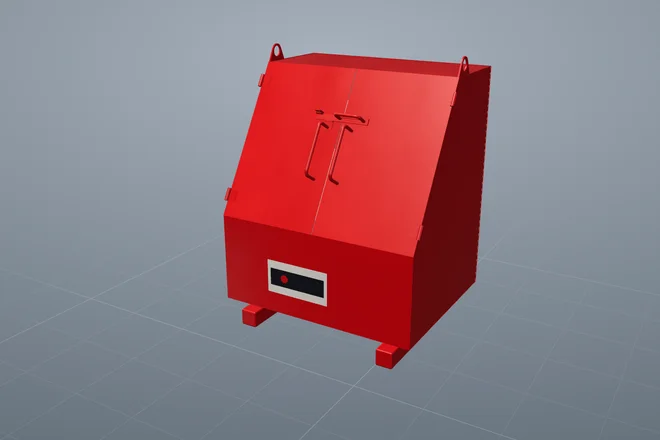
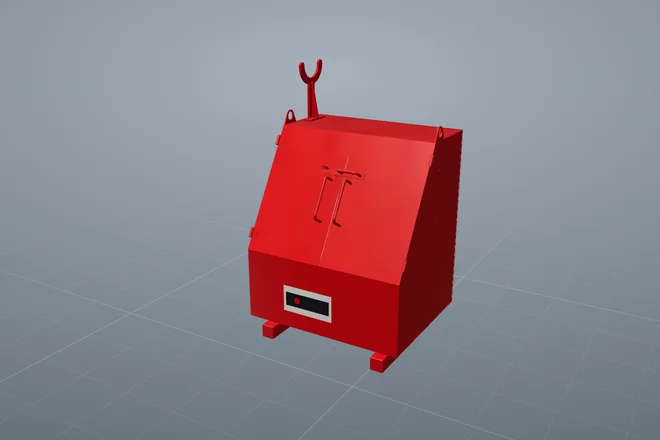
Coffre à outils ITH : support de tube D-D (dessin 0102803) sur le dessus, à gauche
Claude-Session: https://claude.ai/code/session_015N4WsrxvcLJkqMxrHt8fSj

Changed region(s): [[0.3333, 0.0886, 0.7576, 0.8568]]

diff --git a/src/models/coffre-dd/index.js b/src/models/coffre-dd/index.js
@@ -4,6 +4,8 @@
 // et les pentures ne sont pas détaillées sur le dessin (estimées). La peinture
 // (rouge dehors, blanc dedans) et les ajouts du coffre ouvert (tiroir, panier,
 // crochets, autocollant) viennent des photos ; le contenu n'est pas modélisé.
+// Sur le dessus, à gauche : support de tube D-D du dessin 0102803 (P03) ; sa
+// position et son orientation sur le coffre ne figurent sur aucun dessin.
 // Repère : X largeur, Y vers le haut, +Z côté portes.
 
 const IN = 0.0254;
@@ -215,6 +217,36 @@ function decal(S) {
 }
 
 /**
+ * Support de tube D-D (dessin 0102803) : berceau en Y de 3/4 po, base de
+ * 8 × 3 × 1/2 po à quatre trous, gousset de 1/2 po ; 17 1/2 po de haut.
+ * Repère : plaque du berceau dans le plan XY, base posée en y = 0, gousset vers +Z.
+ * Le rayon du berceau (4 po) et les trous de la base sont mesurés sur le dessin à l'échelle.
+ */
+function P03(api) {
+  const S = api.S;
+  const cy = 16.5, ro = 6, ri = 4, hw = 1.5, tb = 0.5, tp = 0.75;
+  const pts = [[-hw, tb], [hw, tb]];
+  const arc = (cx, r, a0, a1, n) => { for (let i = 0; i <= n; i++) { const a = a0 + ((a1 - a0) * i) / n; pts.push([cx + r * Math.cos(a), cy + r * Math.sin(a)]); } };
+  const a = Math.asin(hw / ro); // raccord du montant de 3 po au rayon extérieur
+  arc(0, ro, -Math.PI / 2 + a, 0, 20);
+  arc(5, 1, 0, Math.PI, 10);
+  arc(0, ri, 0, -Math.PI, 36);
+  arc(-5, 1, 0, Math.PI, 10);
+  arc(0, ro, Math.PI, Math.PI * 1.5 - a, 20);
+  const zp = -1.5 + tp / 2; // la plaque affleure le bord arrière de la base
+  const fork = S.at(S.extrude(pts.map(([x, y]) => [x * IN, y * IN]), tp * IN, 'red'), [0, 0, zp * IN]);
+  const holes = [];
+  for (const sx of [-1, 1]) for (const sz of [-1, 1]) holes.push([sx * 3.5 * IN, sz * 1 * IN, 0.28 * IN]);
+  const base = S.at(S.plate(8 * IN, 3 * IN, tb * IN, 'red', { holes, r: 0.25 * IN }), [0, (tb / 2) * IN, 0]);
+  const z0 = zp + tp / 2;
+  const gusset = cheek(S, [[z0, tb], [1.5, tb], [1.5, tb + 0.1], [z0 + 0.25, 11.5], [z0, 11.5]].map(([z, y]) => [z * IN, y * IN]), 0.5 * IN, 'red', 0);
+  api.part('1', fork, [0, 0.12, -0.2]);
+  api.part('2', base, [0, -0.15, 0]);
+  api.part('3', gusset, [0, 0.05, 0.25]);
+  return { view: { dir: [0.9, 0.4, 1.2] } };
+}
+
+/**
  * Coffre complet. open : angle d'ouverture des portes [gauche, droite] en
  * radians ; extras : ajouts visibles sur la photo du coffre ouvert.
  */
@@ -268,6 +300,12 @@ function build(api, open, extras) {
   put('16', onDoor(pivotPlate(S, 1.5 * IN, 0.5 * IN), -1, a), out(1.15, dx - 0.12));
   put('17', onDoor(pivotPlate(S, 2 * IN, 0.75 * IN + 0.125 * IN + 0.001), -1, a), out(0.95, dx - 0.12));
 
+  // Support de tube D-D sur le dessus, à gauche : berceau en travers du coffre
+  // (tube couché dans la largeur), gousset vers le centre.
+  const sup = api.sub('P03', { inPlace: true });
+  sup.rotation.y = Math.PI / 2;
+  put('23', S.at(sup, [-W / 2 + 3 * IN, H, -D / 2 + 8 * IN]), [-0.25, 0.9, 0]);
+
   put('18', S.at(decal(S), [-0.1, Y0 + (YK - Y0) * 0.42, D / 2]), [0, 0, 0.9]);
   if (!extras) return;
   put('19', S.at(drawer(S), [DRAWER.x, YB - t - DRAWER.h - 0.006, DRAWER.zf]), [0, -0.12, 0.9]);
@@ -290,4 +328,4 @@ function P02(api) {
   return { view: { dir: [0.35, 0.45, 1.3] } };
 }
 
-export default { P01, P02 };
+export default { P01, P02, P03 };

diff --git a/README.md b/README.md
@@ -115,6 +115,9 @@ pièces (numéro, quantité, page du manuel).
   les ajouts visibles sur la photo (tiroir, panier, crochets). Épaisseur des
   tôles et pentures non détaillées sur le dessin (estimées) ; peinture d'après
   les photos ; le contenu du coffre n'est pas modélisé.
+  Sur le dessus, à gauche : support de tube D-D du dessin 0102803 (P03 :
+  berceau en Y de 3/4 po, base de 8 × 3 po, gousset ; 17 1/2 po de haut), dont
+  la position sur le coffre n'est cotée sur aucun dessin.
 
 - **Support de tiges de forage — « rack à rods »** (`rack-tiges-dd`, procédure
   d'installation PRO-DD-ST-008 de Machines Roger International, révision août
